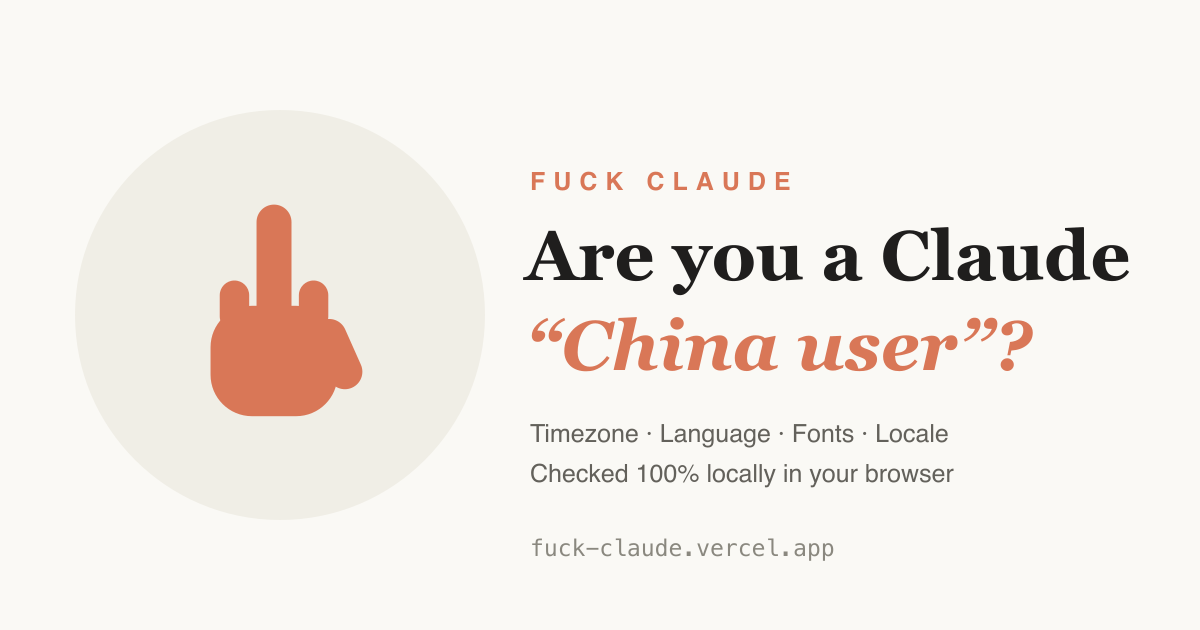
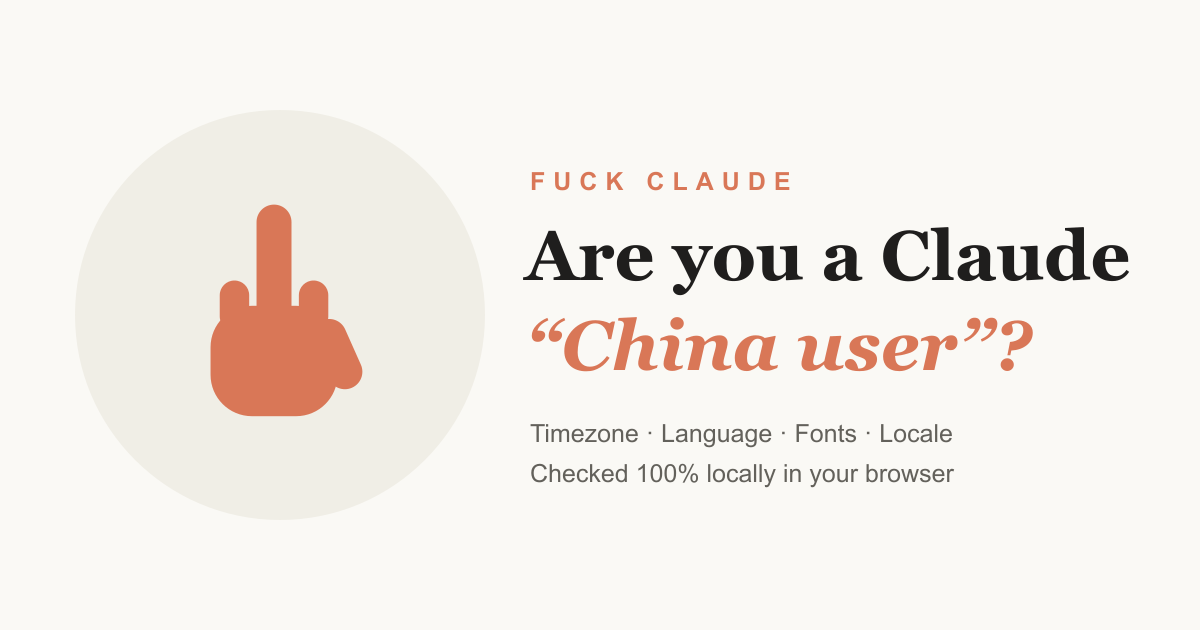
1
1

Changed region(s): [[0.555, 0.6635, 0.8017, 0.754], [0.4317, 0.8444, 0.7092, 0.9048]]

diff --git a/src/i18n/ui.ts b/src/i18n/ui.ts
@@ -78,11 +78,11 @@ export const ui = {
       'Switch your OS timezone away from China zones such as Asia/Shanghai, move zh-CN off the top of your browser language list, and avoid routing Claude Code through proxies whose hostnames contain flagged domains or AI-lab keywords.',
     'faq.q4': 'Is any data uploaded?',
     'faq.a4':
-      'No. Every check runs locally in your browser and none of the detected signals are ever sent anywhere. The site only loads standard Google Analytics for anonymous page-view stats.',
+      'No. Every check runs locally in your browser and none of the detected signals are ever sent anywhere.',
 
     'privacy.title': 'Privacy',
     'privacy.body':
-      'Every check runs locally in your browser — your scan results never leave your device. The site only loads Google Analytics for anonymous page-view stats; none of the detected signals are ever sent.',
+      'Every check runs locally in your browser — your scan results never leave your device, and nothing is ever sent anywhere.',
 
     'footer.disclaimer':
       'For reference only, based on public reverse-engineering reports. Not an official statement or advice.',
@@ -154,11 +154,11 @@ export const ui = {
       '把系统时区改出 Asia/Shanghai 等中国时区,把 zh-CN 从浏览器语言列表首位移除,并避免让 Claude Code 走 hostname 含敏感域名 / AI 实验室关键词的中转。',
     'faq.q4': '会上传我的数据吗?',
     'faq.a4':
-      '不会。所有检测都在浏览器本地完成,检测到的任何信号都不会被发送。网站仅加载 Google Analytics 统计匿名访问量。',
+      '不会。所有检测都在浏览器本地完成,检测到的任何信号都不会被发送。',
 
     'privacy.title': '隐私说明',
     'privacy.body':
-      '所有检测都在你的浏览器本地完成,扫描结果不会离开你的设备。网站仅加载 Google Analytics 统计匿名页面访问量,检测到的信号不会被发送。',
+      '所有检测都在你的浏览器本地完成,扫描结果不会离开你的设备,不会向任何地方发送任何数据。',
 
     'footer.disclaimer': '本工具仅供参考,基于公开逆向分析,不构成任何官方结论或建议。',
 